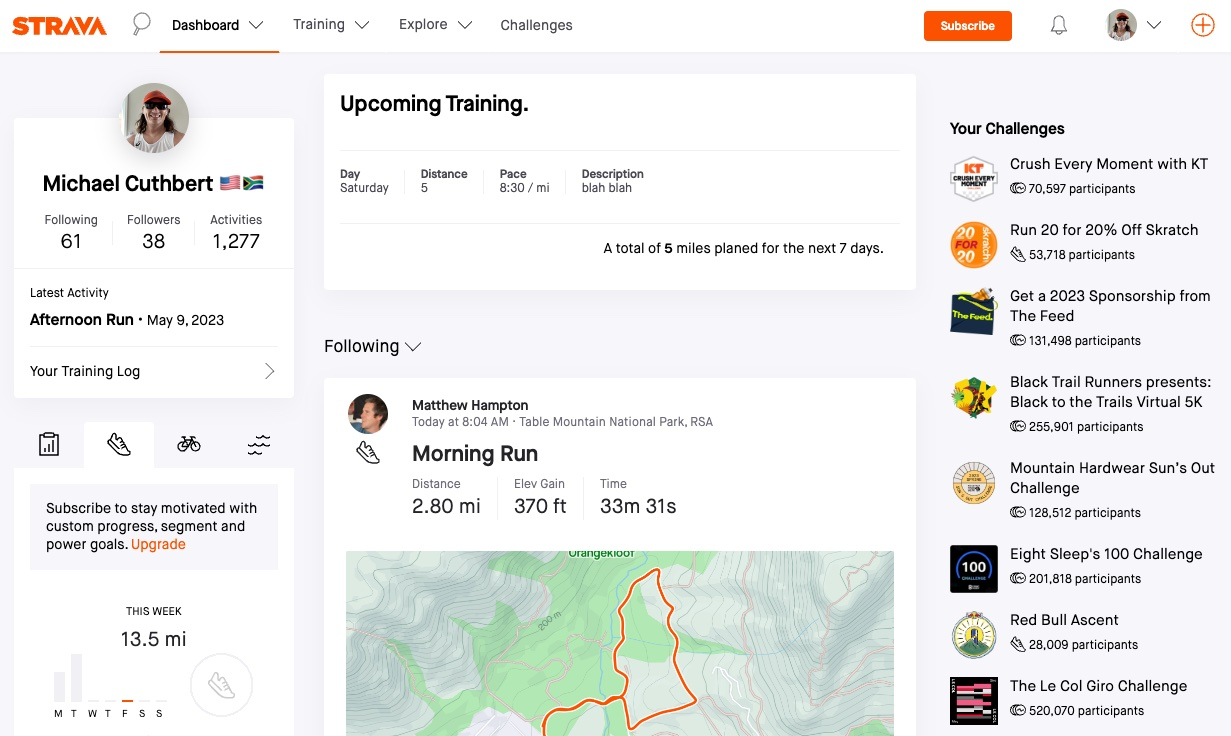
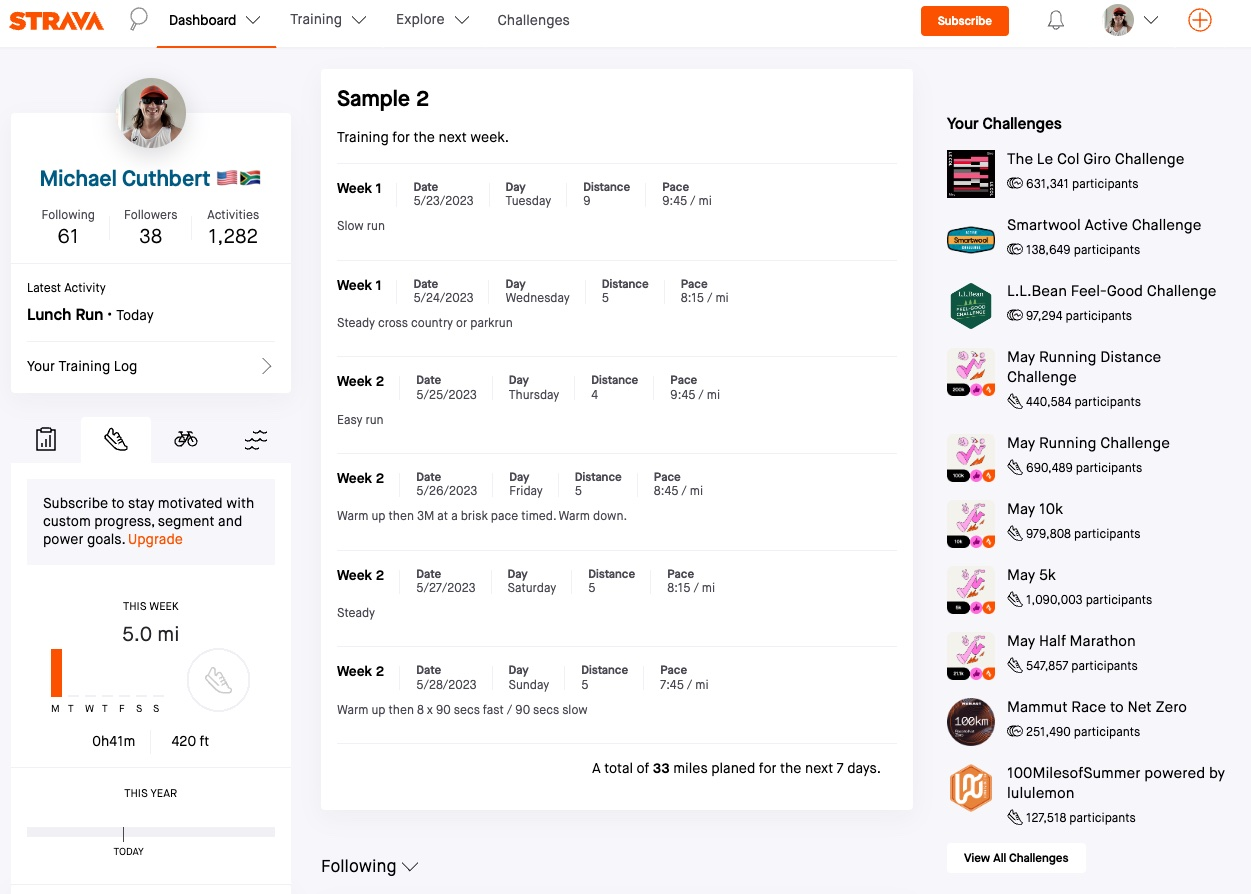
Fixing bug and minor cleanups

diff --git a/src/trainingPlan.ts b/src/trainingPlan.ts
@@ -101,7 +101,7 @@ function buildComingUp(planName:string, planData:any) {
             `;
             let totalDistance = 0;
             filteredKeys.forEach((key:any) => {
-                const currentPlan = planData[key];
+                const currentPlan = planData.data[key];
                 let paceSeconds = currentPlan.paceSeconds;
                 if (paceSeconds < 10) {
                     paceSeconds = "0" + paceSeconds;
@@ -114,6 +114,12 @@ function buildComingUp(planName:string, planData:any) {
                             <li>
                                 <div>
                                     <b>${currentPlan.title}</b>
+                                </div>
+                            </li>
+                            <li>
+                                <div class="stat">
+                                    <div class="stat-subtext text-left"><b>Date</b></div>
+                                    <b class="stat-subtext">${currentDate.toLocaleDateString("en-US")}</b>
                                 </div>
                             </li>
                             <li>
@@ -134,9 +140,10 @@ function buildComingUp(planName:string, planData:any) {
                                     <b class="stat-subtext">${currentPlan.paceMinutes + ":" + paceSeconds} / mi</b>
                                 </div>
                             </li>
+                        </ul>
+                        <ul>
                             <li>
                                 <div class="stat">
-                                    <div class="stat-subtext text-left"><b>Description</b></div>
                                     <b class="stat-subtext">${currentPlan.description}</b>
                                 </div>
                             </li>
